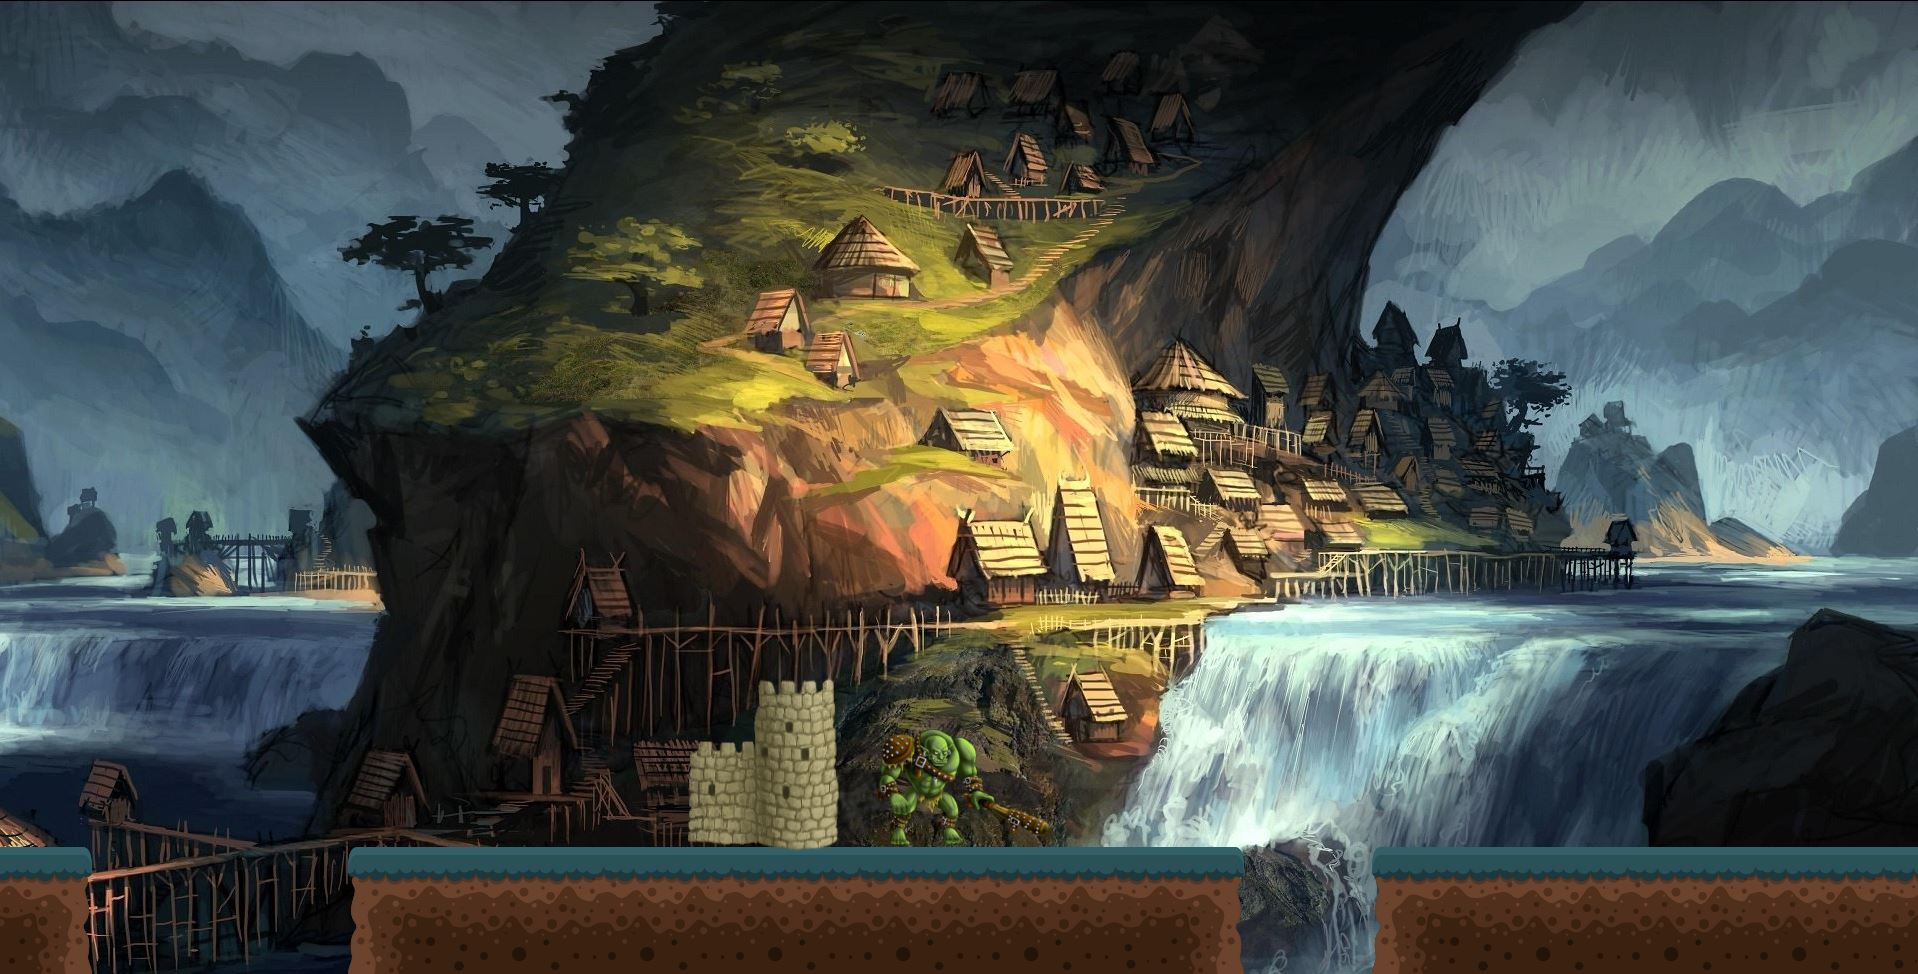
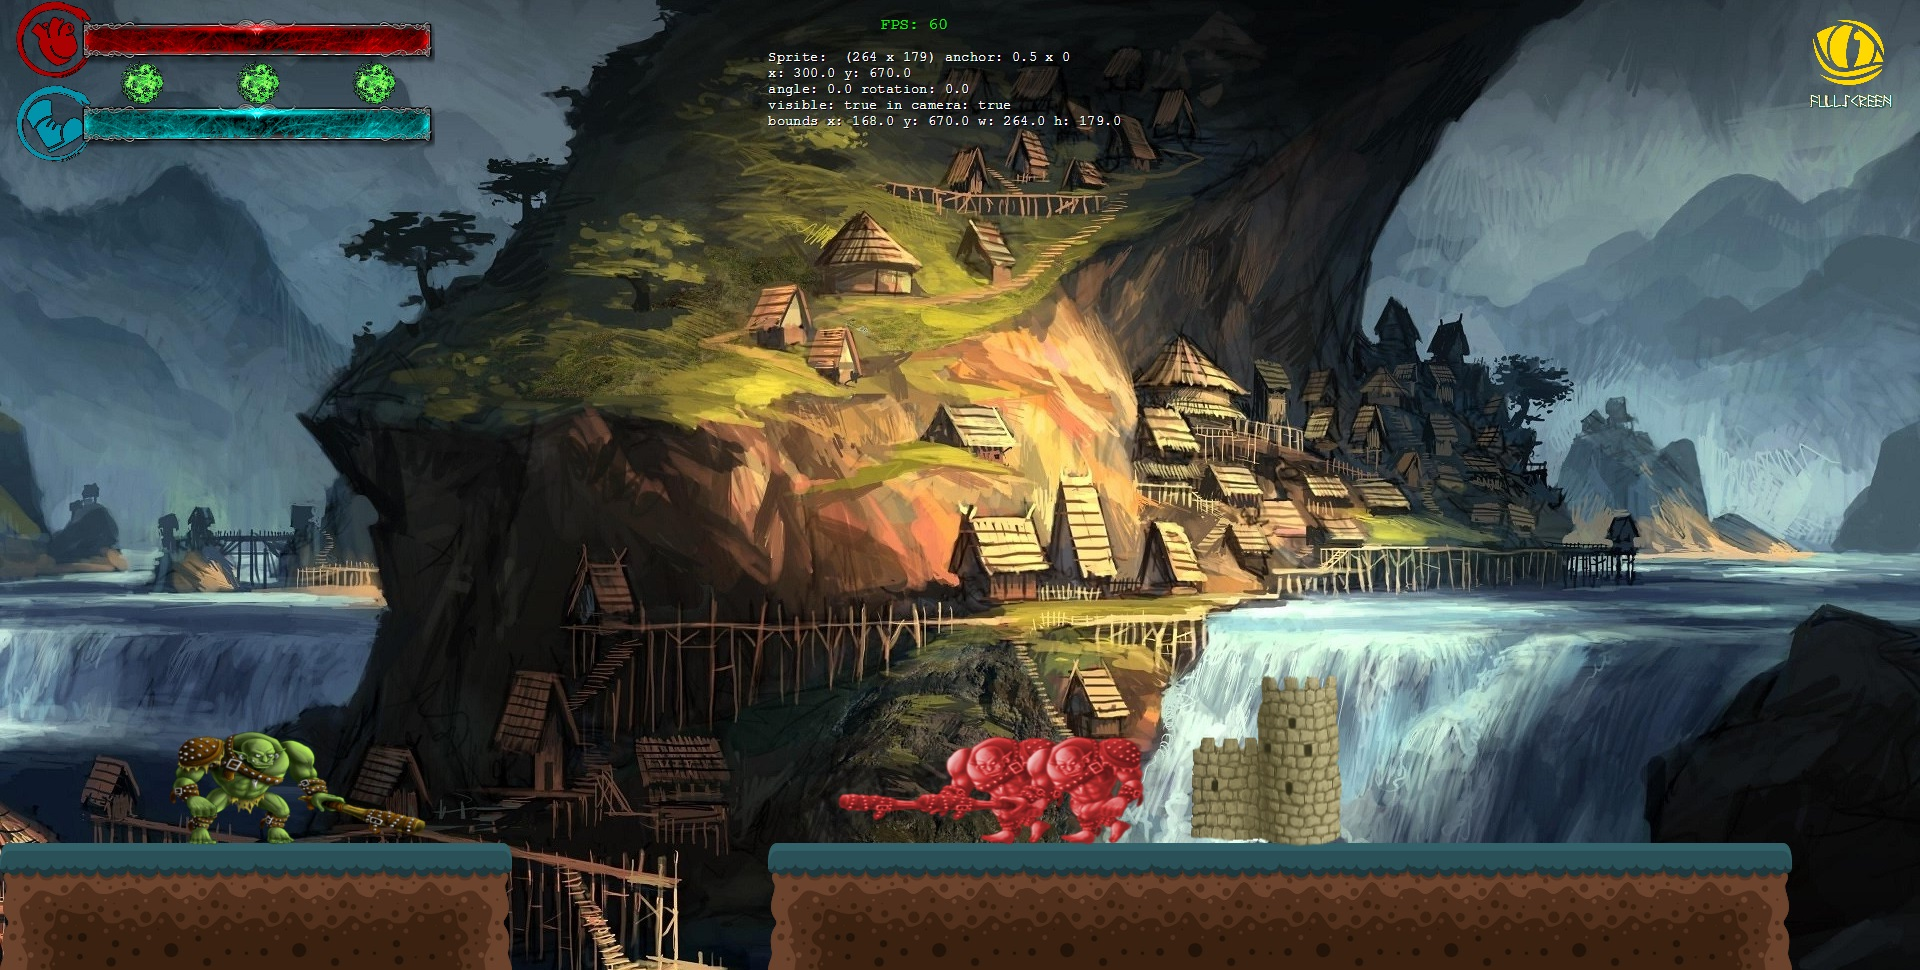
Minor fixes on the main code to support the new classes. Updated gameplay screenshot.

diff --git a/js/play.js b/js/play.js
@@ -1,9 +1,7 @@
 var ui = {};
-var platformsPositions = [];
 var orbsN = 3;
-var lastPlatformPosition = 0;
 var destroyedBuildingsN = 0;
-var cursor, player, platforms, buildings, enemies;
+var cursor, buildings, enemies;
 
 var statePlay = {
 	create: function() {
@@ -23,7 +21,7 @@ var statePlay = {
 		createEnemies();
 	},
 	update: function() {
-		var areEnemiesTouchingPlatform = game.physics.arcade.collide(enemies, platforms); // Collision check between the enemies and the platforms		
+		var areEnemiesTouchingPlatform = game.physics.arcade.collide(enemies, game.level.platforms.gameObjects); // Collision check between the enemies and the platforms		
 
 		game.player.update();
 
@@ -96,11 +94,11 @@ function createBuildings() {
 	buildings = game.add.group();
 	buildings.enableBody = true;
 
-	for (var i = 0; i < platformsPositions.length - 1; i += 1) {
+	for (var i = 0; i < game.level.platforms.positions.length - 1; i += 1) {
 		var id = i + 1;
 		var buildingsPerPlatform = game.rnd.integerInRange(1, 3);
-		var start = platformsPositions[id][0];
-		var end = platformsPositions[id][1];
+		var start = game.level.platforms.positions[id][0];
+		var end = game.level.platforms.positions[id][1];
 
 		for (var j = 0; j < buildingsPerPlatform; j += 1) {
 			var buldingPosition = game.rnd.integerInRange(start, end);
@@ -121,12 +119,12 @@ function createEnemies() {
 	enemies.enableBody = true;
 	enemies.physicsBodyType = Phaser.Physics.ARCADE;
 
-	for (var i = 0; i < platformsPositions.length - 1; i += 1) {
+	for (var i = 0; i < game.level.platforms.positions.length - 1; i += 1) {
 		var id = i + 1;
 		// TODO: Change to enemy factory
 		var enemiesPerPlatform = game.rnd.integerInRange(1, 3);
-		var start = platformsPositions[id][0];
-		var end = platformsPositions[id][1];
+		var start = game.level.platforms.positions[id][0];
+		var end = game.level.platforms.positions[id][1];
 
 		for (var j = 0; j < enemiesPerPlatform; j += 1) {
 			var enemyPosition = game.rnd.integerInRange(start, end); // Placement position for the current enemy
@@ -210,7 +208,7 @@ function enemyInPlayerRangeCheck(enemy) {
 
 function enenmyMove(enemy) {
 	// Move towards the player if not next to a whole between them		
-	for (var i = 0; i < platformsPositions.length; i += 1) {
+	for (var i = 0; i < game.level.platforms.positions.length; i += 1) {
 		var checkDist; // Used to determine the distance between the sprite nad the whole depending on the direction
 
 		if (enemy.directionToPlayer === 0) {
@@ -219,7 +217,7 @@ function enenmyMove(enemy) {
 			checkDist = 5;
 		}
 
-		if (Math.abs(enemy.position.x - platformsPositions[i][enemy.directionToPlayer]) < checkDist) {
+		if (Math.abs(enemy.position.x - game.level.platforms.positions[i][enemy.directionToPlayer]) < checkDist) {
 			enemy.nextToWhole = true; // If the enemy is 5 pixels away from the hole lock him into a "next to a hole" state
 		}
 	}
